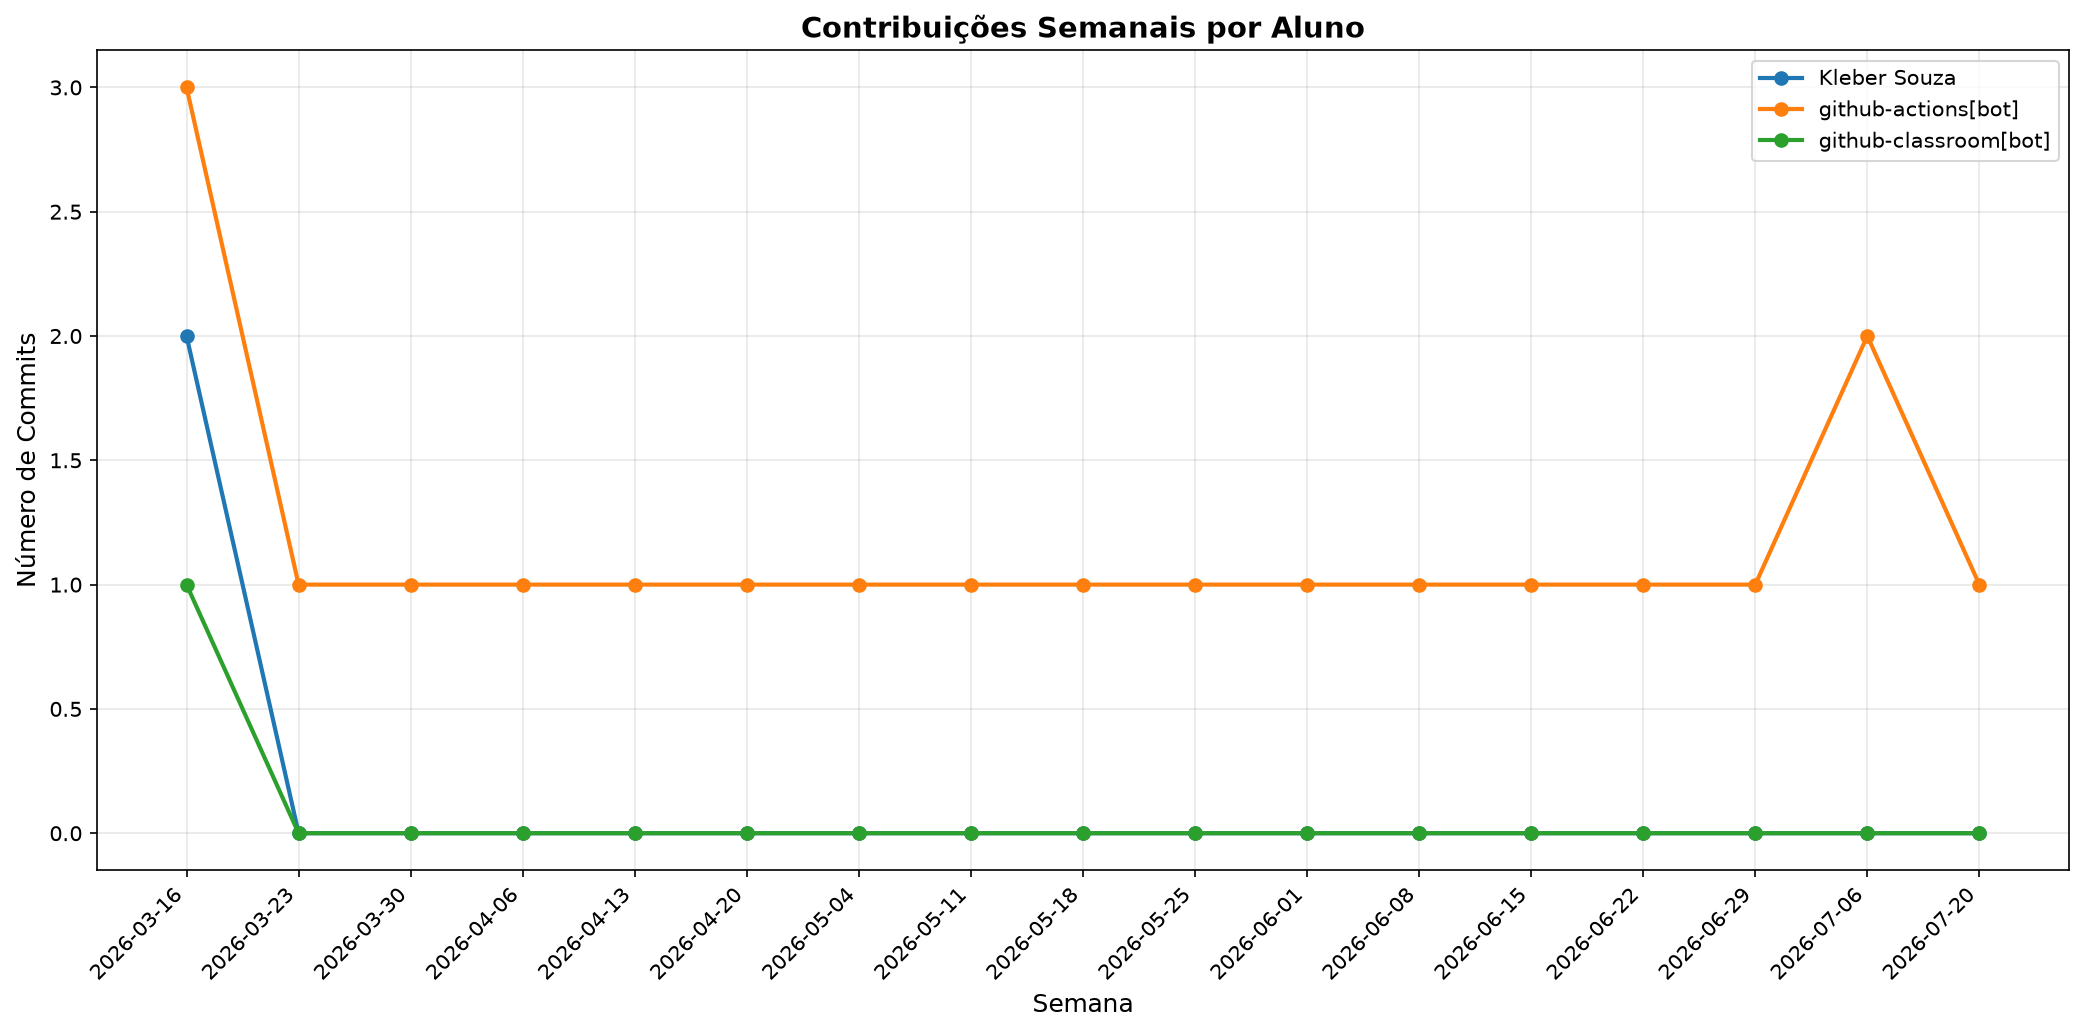
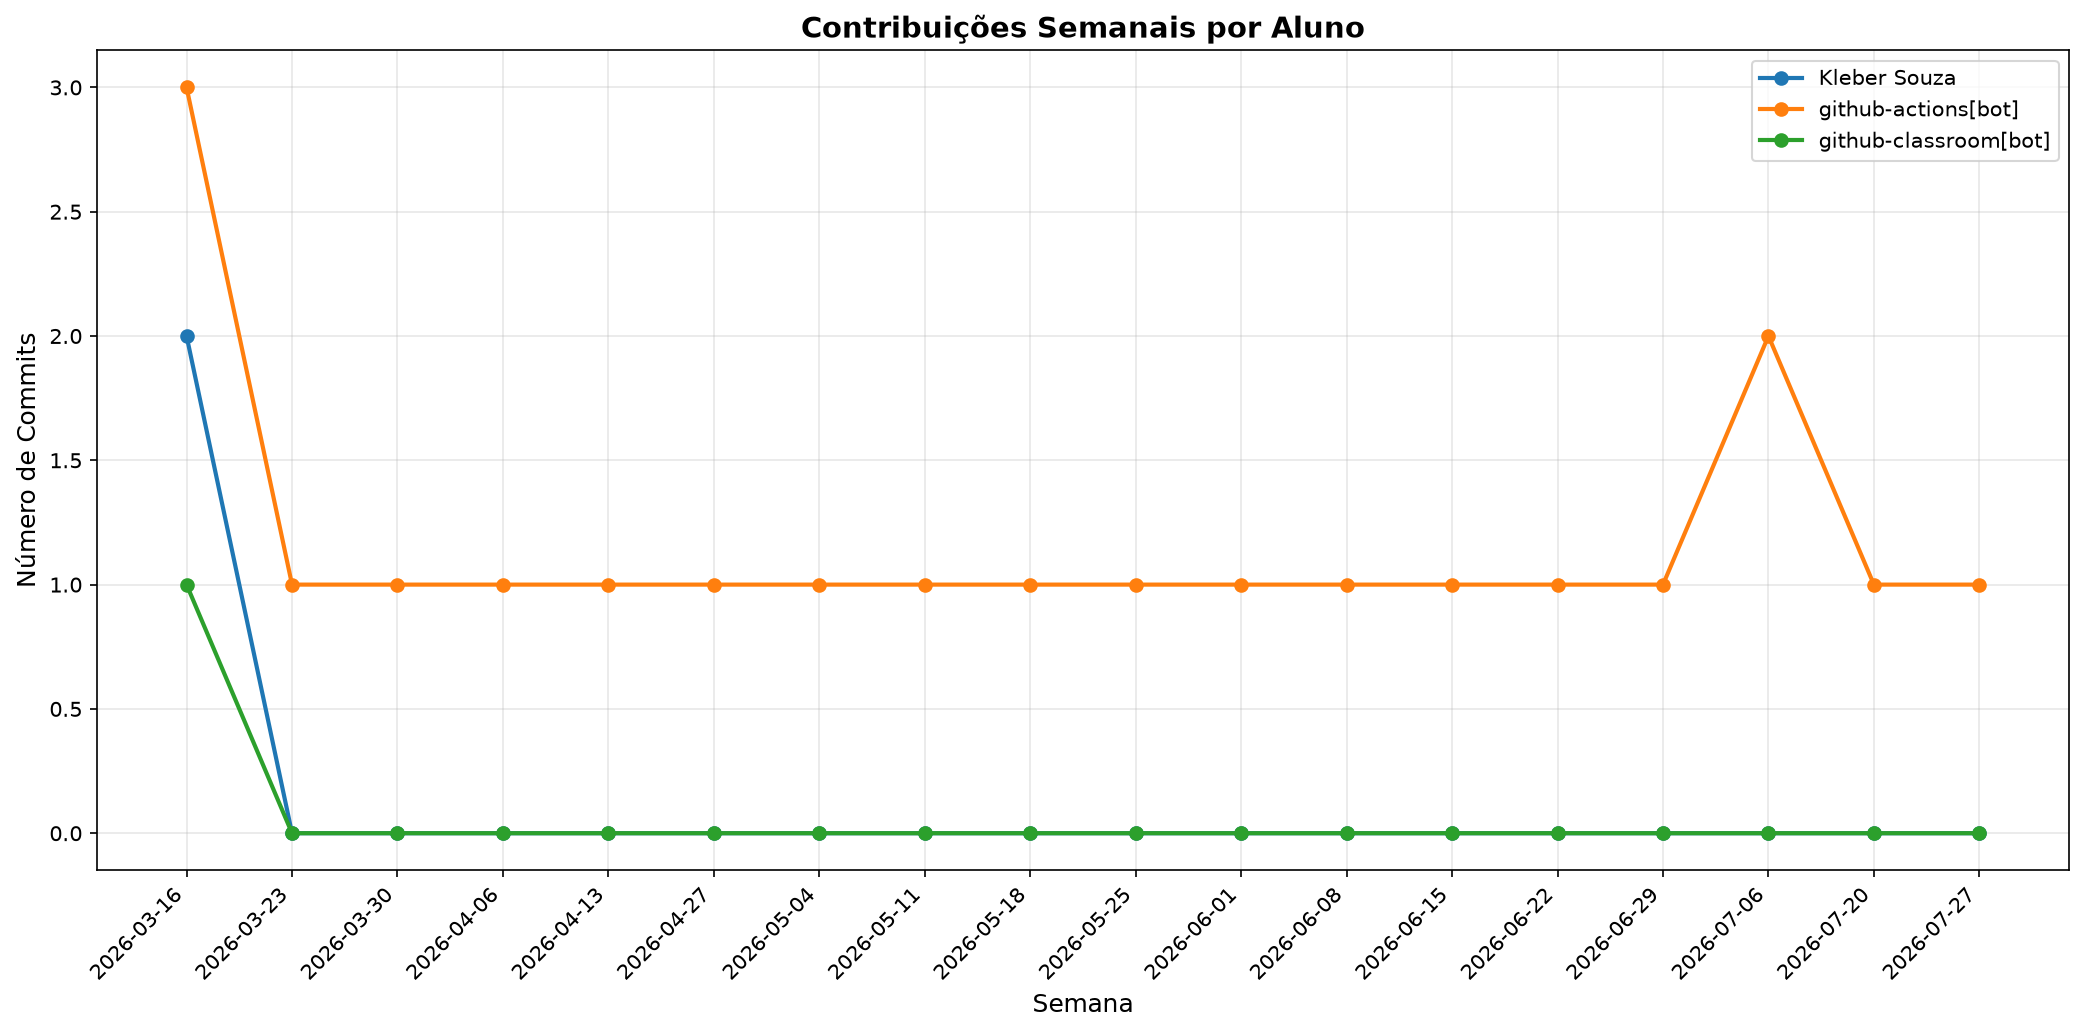
📊 Atualizar relatório de contribuições [skip ci]

diff --git a/documentos/CONTRIBUTION_REPORT.md b/documentos/CONTRIBUTION_REPORT.md
@@ -1,6 +1,6 @@
 # 📊 Relatório de Contribuições do Projeto
 
-**Última atualização:** 27/07/2026 02:33
+**Última atualização:** 03/08/2026 02:27
 
 ---
 
@@ -9,11 +9,13 @@
 | Aluno                 |   Commits |   Linhas+ |   Linhas- |   Arquivos |   Docs Commits |   Docs Arquivos |
 |-----------------------|-----------|-----------|-----------|------------|----------------|-----------------|
 | Kleber Souza          |         2 |         2 |         2 |          2 |              2 |               1 |
-| github-actions[bot]   |        20 |       124 |        49 |          3 |             20 |               1 |
+| github-actions[bot]   |        21 |       132 |        55 |          3 |             21 |               1 |
 | github-classroom[bot] |         1 |       774 |         0 |         19 |              1 |               3 |
 
 
 ## 📅 Contribuições Semanais (Todo o Semestre)
+
+**2026-07-27**: github-actions[bot]: 1
 
 **2026-07-20**: github-actions[bot]: 1
 
@@ -37,7 +39,7 @@
 
 **2026-05-04**: github-actions[bot]: 1
 
-**2026-04-20**: github-actions[bot]: 1
+**2026-04-27**: github-actions[bot]: 1
 
 **2026-04-13**: github-actions[bot]: 1
 
